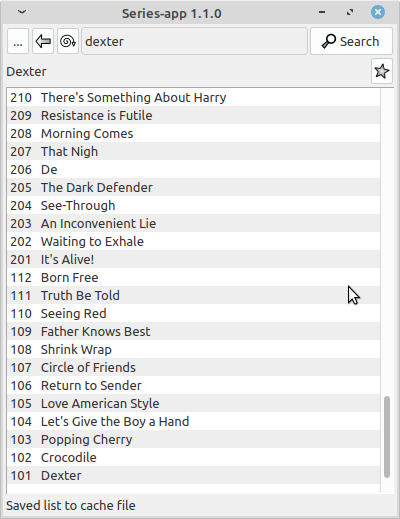
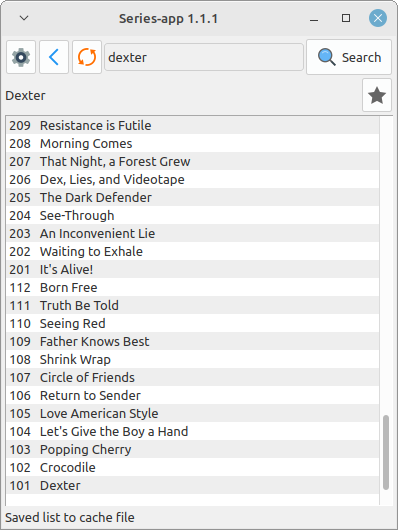
Update readme images paths; Update screenshot.

diff --git a/README.md b/README.md
@@ -1,4 +1,4 @@
-![Seriesapp Logo](icons/asteroid_64.png)
+![Seriesapp Logo](res/icons/asteroid_64.png)
 Series-app
 ==========
 For your series
@@ -9,7 +9,7 @@ For your series
 Series-app is a small application that retrieves series and episode info from
 epguides.com.
 
-![Screenshot](screenshot.png)
+![Screenshot](res/screenshot.png)
 
 Episode dates are shown when hovering the mouse over an episode name and
 yet unreleased episodes are marked grey.
